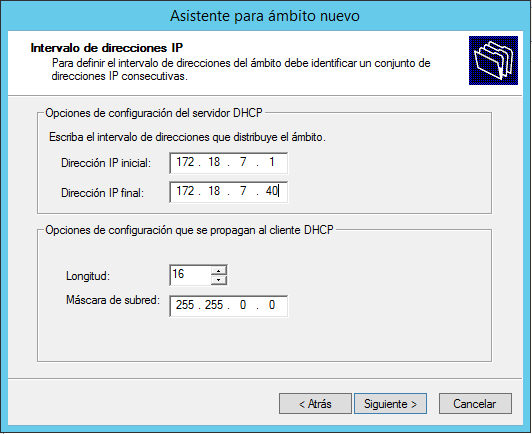
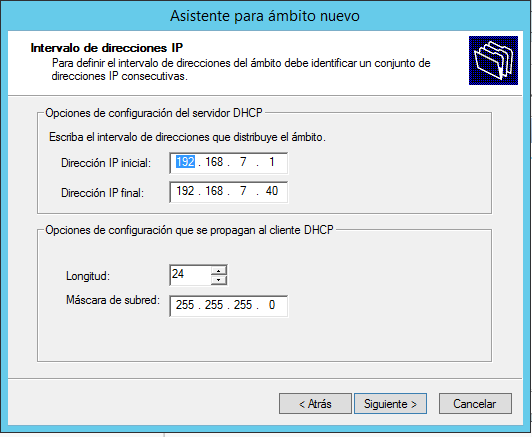
nuevocambio

diff --git a/Servicios_Red/README.md b/Servicios_Red/README.md
@@ -36,3 +36,15 @@ En esta práctica vamos a monitorizar un servicio DHCP en una máquina Windows S
 - Crearemos un segundo ámbito cuya información sea complementaria con el anterior.
 
 ![3](./img/9.png)
+
+- En el paso anterior deberíamos insertar unas direcciones distintas por que nos pueden dar problemas. Aceptamos y creamos el segundo ámbito.
+
+![3](./img/10.png)
+
+- Como último paso, debemos crear un súper ámbito que una los dos ámbitos anteriores.
+
+![3](./img/11.png)
+
+- Aceptamos y ya tenemos nuestro súper ámbito.
+
+![3](./img/12.png)
